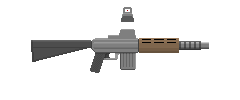
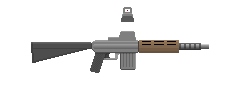
a

diff --git a/Technology/PlasmaticWeaponry.md b/Technology/PlasmaticWeaponry.md
@@ -37,7 +37,7 @@ It is a law in many nations that unsupervised weapons production is a severe cri
 - **Manufacturer:** KAG Armoury
 - **Core:** Mrokek
 - **Rate of Fire:** 660 rpm (auto)
-- **Length:** ~90 centimeters
+- **Length:** ~89 centimeters
 - **Weight:** ~3.6 kilograms
 - **Projectile:** Contained plasma bolt (coloured blue, 5 grams, heat estimated to be 2000 kelvins)
 - **Battery capacity:** 40 blasts before weakening, ~50 blasts before empty
